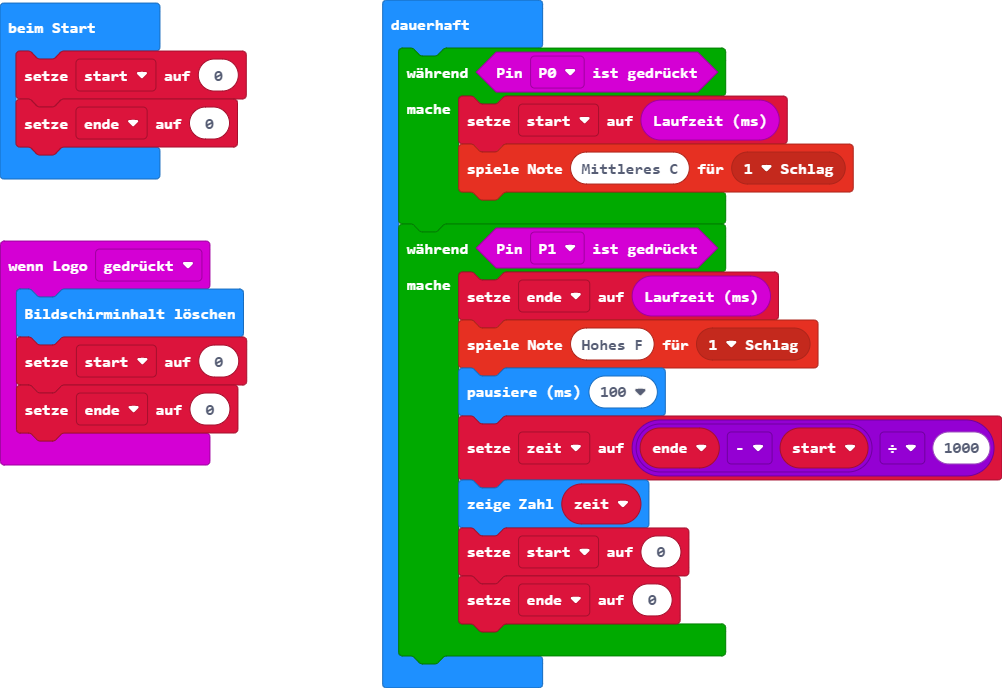
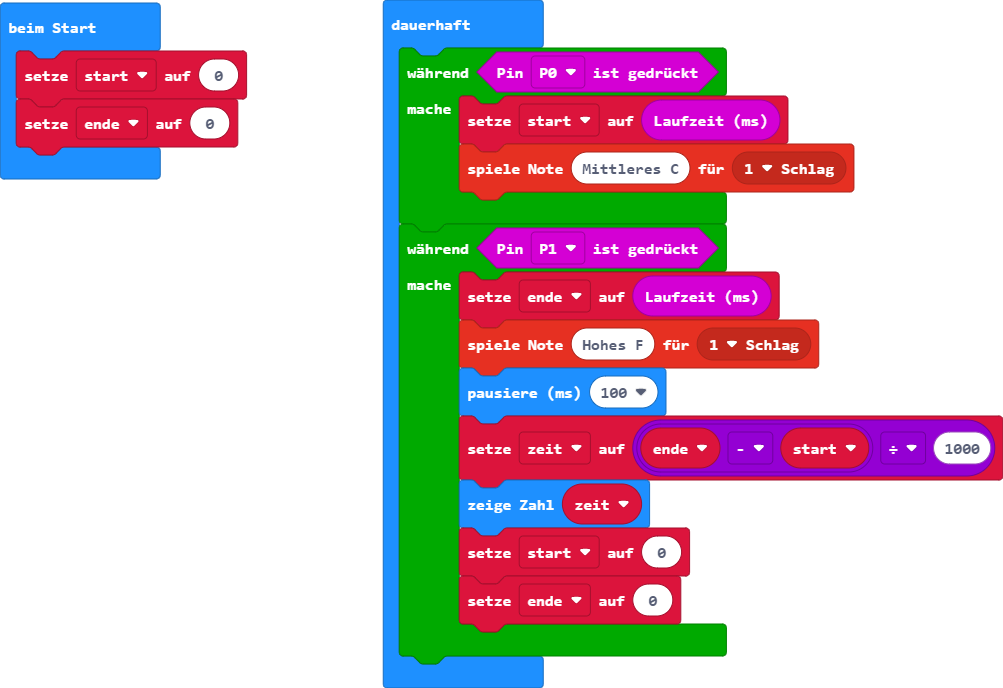
Vereinfachung

diff --git a/main.ts b/main.ts
@@ -1,13 +1,6 @@
-input.onLogoEvent(TouchButtonEvent.Pressed, function () {
-    basic.clearScreen()
-    start = 0
-    ende = 0
-})
 let zeit = 0
-let ende = 0
 let start = 0
-start = 0
-ende = 0
+let ende = 0
 basic.forever(function () {
     while (input.pinIsPressed(TouchPin.P0)) {
         start = input.runningTime()
